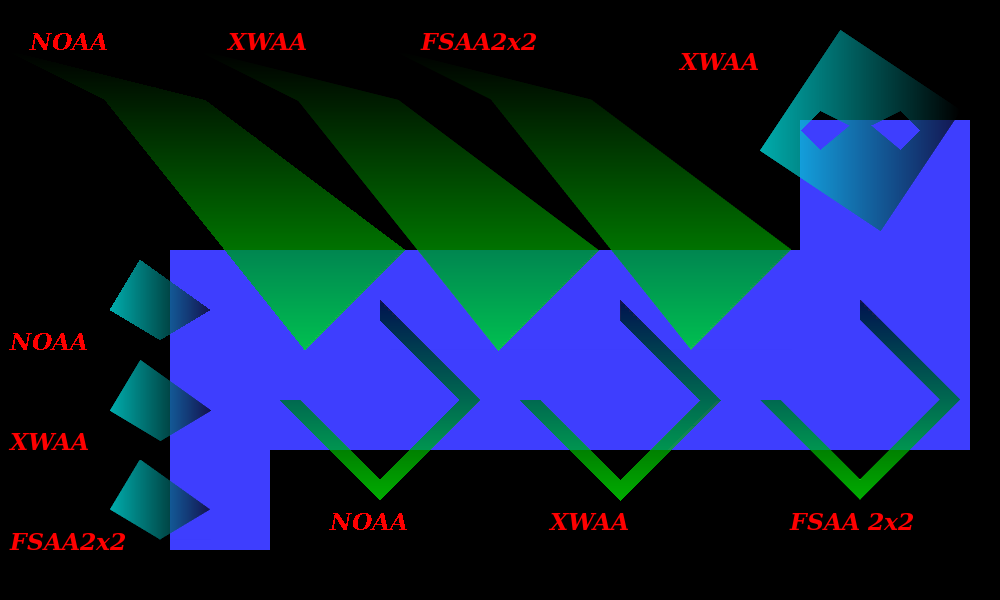
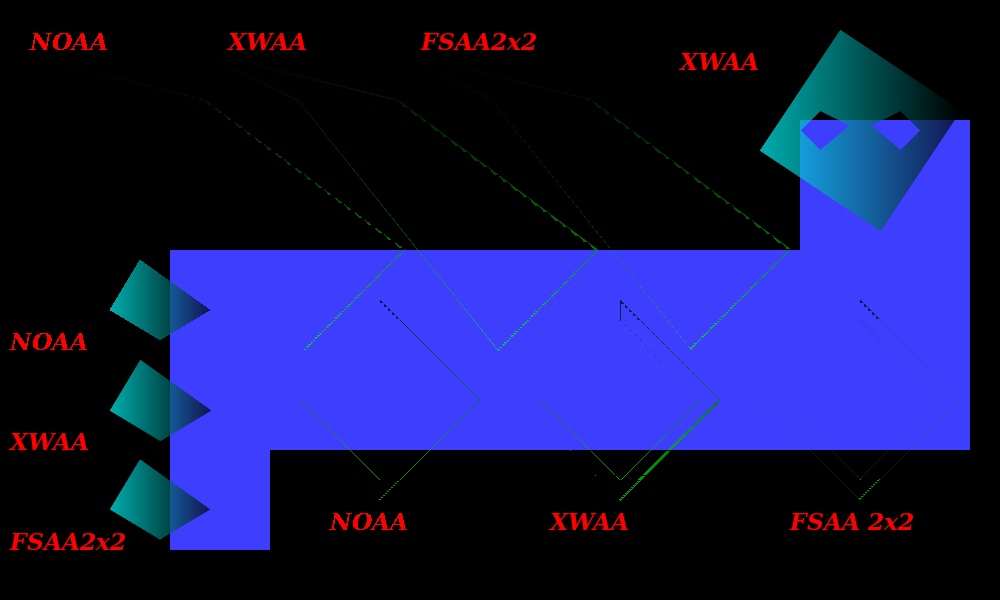
Working on NEON support

diff --git a/include/Pt/Gfx/Argb32SIMDOps.h b/include/Pt/Gfx/Argb32SIMDOps.h
@@ -58,12 +58,22 @@ namespace Gfx {
 namespace Argb32 {
 
 
-#ifdef USE_SSE2
+#if defined(USE_SSE2)
 
 // SSE mask
 static const __m128i maskA000 = _mm_set_epi32(0xFF000000U, 0xFF000000U, 0xFF000000U, 0xFF000000U);
 static const __m128i maskA0G0 = _mm_set_epi32(0xFF00FF00U, 0xFF00FF00U, 0xFF00FF00U, 0xFF00FF00U);
 static const __m128i mask0B0R = _mm_set_epi32(0x00FF00FFU, 0x00FF00FFU, 0x00FF00FFU, 0x00FF00FFU);
+
+#elif defined(USE_NEON)
+
+#define SET_16X8(A, B, C, D, E, F, G, H) { (int16_t) A, (int16_t) B, (int16_t) C, (int16_t) D, (int16_t) E, (int16_t) F, (int16_t) G, (int16_t) H }
+#define SET_32X4(A, B, C, D)             { (int32_t) A, (int32_t) B, (int32_t) C, (int32_t) D }
+
+// NEON mask
+static const int32x4_t maskA000 = SET_32X4(0xFF000000U, 0xFF000000U, 0xFF000000U, 0xFF000000U);
+static const int32x4_t maskA0G0 = SET_32X4(0xFF00FF00U, 0xFF00FF00U, 0xFF00FF00U, 0xFF00FF00U);
+static const int32x4_t mask0B0R = SET_32X4(0x00FF00FFU, 0x00FF00FFU, 0x00FF00FFU, 0x00FF00FFU);
 
 #endif
 
@@ -92,7 +102,7 @@ inline void fastCopyPixels(Pt::uint8_t* toBuffer, Pt::uint32_t fromARGB, size_t 
           int32x4_t* dstvARGB = reinterpret_cast<int32x4_t*>(toBuffer);
 
     for(size_t i = 0; i < len4; ++i) {
-        vst1q_s32(reinterpret_cast<Pt::int32_t*>(dstvARGB), srcvARGB);
+        vst1q_s32((int32_t*) dstvARGB, srcvARGB);
         ++dstvARGB;
     }
 
@@ -111,7 +121,7 @@ inline void fastCopyPixels(Pt::uint8_t* toBuffer, Pt::uint32_t fromARGB, size_t 
 // Blend a constant color to destination pixels
 inline void fastBlendPixels(Pt::uint8_t* toBuffer, Pt::uint32_t srcA, Pt::uint32_t srcR, Pt::uint32_t srcG, Pt::uint32_t srcB, Pt::uint32_t blendInv, size_t length)
 {
-#ifdef USE_SSE2
+#if defined(USE_SSE2)
 
     const size_t   len4     = length / 4;
     const __m128i  srcvAGAG = _mm_set_epi16(srcA, srcG, srcA, srcG, srcA, srcG, srcA, srcG); // [ AAGG AAGG AAGG AAGG ]
@@ -142,6 +152,42 @@ inline void fastBlendPixels(Pt::uint8_t* toBuffer, Pt::uint32_t srcA, Pt::uint32
         // Store 4 pixels
         dstv4PIX = _mm_or_si128    (dstvAGAG, dstvRBRB); // [ ARGB ARGB ARGB ARGB ]
                    _mm_storeu_si128(dstvARGB, dstv4PIX);
+        // Increment the destination pointer
+        ++dstvARGB;
+    }
+
+    length %= 4;
+    Pt::uint8_t* dst = reinterpret_cast<Pt::uint8_t*>(dstvARGB);
+
+#elif defined(USE_NEON)
+
+    const size_t     len4     = length / 4;
+    const int16x8_t  srcvAGAG = SET_16X8(srcA, srcG, srcA, srcG, srcA, srcG, srcA, srcG); // [ AAGG AAGG AAGG AAGG ]
+    const int16x8_t  srcvRBRB = SET_16X8(srcR, srcB, srcR, srcB, srcR, srcB, srcR, srcB); // [ RRBB RRBB RRBB RRBB ]
+    const int32x4_t  srci0A0A = SET_32X4(blendInv, blendInv, blendInv, blendInv);         // [ 0I0I 0I0I 0I0I 0I0I ]
+          int32x4_t* dstvARGB = reinterpret_cast<int32x4_t*>(toBuffer);
+          int32x4_t  dstv4PIX;
+          int32x4_t  dstvAGAG;
+          int32x4_t  dstvRBRB;
+
+    for(size_t i = 0; i < len4; ++i) {
+        // Load 4 pixels
+        dstv4PIX = vld1q_s32  ((int32_t*) dstvARGB); // [ ARGB ARGB ARGB ARGB ]
+        // Process A and G
+        dstvAGAG = vandq_s32  (dstv4PIX, maskA0G0 ); // [ A0G0 A0G0 A0G0 A0G0 ]
+        dstvAGAG = vshrq_n_s32(dstvAGAG, 8        ); // [ 0A0G 0A0G 0A0G 0A0G ]
+        dstvAGAG = (int32x4_t) vmulq_s16  ((int16x8_t) dstvAGAG, (int16x8_t) srci0A0A ); // [ AAGG AAGG AAGG AAGG ]
+        dstvAGAG = (int32x4_t) vaddq_s16  ((int16x8_t) dstvAGAG, (int16x8_t) srcvAGAG ); // [ AAGG AAGG AAGG AAGG ]
+        dstvAGAG = vandq_s32  (dstvAGAG, maskA0G0 ); // [ A0G0 A0G0 A0G0 AAG0 ]
+        // Process R and B
+        dstvRBRB = vandq_s32  (dstv4PIX, mask0B0R ); // [ 0R0B 0R0B 0R0B 0R0B ]
+        dstvRBRB = (int32x4_t) vmulq_s16  ((int16x8_t) dstvRBRB, (int16x8_t) srci0A0A ); // [ RRBB RRBB RRBB RRBB ]
+        dstvRBRB = (int32x4_t) vaddq_s16  ((int16x8_t) dstvRBRB, (int16x8_t) srcvRBRB ); // [ RRBB RRBB RRBB RRBB ]
+        dstvRBRB = vshrq_n_s32(dstvRBRB, 8        ); // [ .R.B .R.B .R.B .R.B ]
+        dstvRBRB = vandq_s32  (dstvRBRB, mask0B0R ); // [ 0R0B 0R0B 0R0B 0R0B ]
+        // Store 4 pixels
+        dstv4PIX = vorrq_s32  (dstvAGAG, dstvRBRB); // [ ARGB ARGB ARGB ARGB ]
+                   vst1q_s32  ((int32_t*) dstvARGB, dstv4PIX);
         // Increment the destination pointer
         ++dstvARGB;
     }
@@ -192,10 +238,11 @@ inline void fastCopyPixels(Pt::uint8_t* toBuffer, const Pt::uint8_t* fromBuffer,
           int32x4_t* dstvARGB = reinterpret_cast<      int32x4_t*>(toBuffer  );
 
     for(size_t i = 0; i < len4; ++i) {
-        vst1q_s32(reinterpret_cast<Pt::int32_t*>(dstvARGB), vld1q_s32(reinterpret_cast<const Pt::int32_t*>(srcvARGB)));
+        vst1q_s32((int32_t*) dstvARGB, vld1q_s32((int32_t*) srcvARGB));
         ++srcvARGB;
         ++dstvARGB;
     }
+
     const Pt::uint32_t* src = reinterpret_cast<const Pt::uint32_t*>(srcvARGB);
           Pt::uint32_t* dst = reinterpret_cast<      Pt::uint32_t*>(dstvARGB);
           Pt::uint32_t* dsm = dst + length % 4;

diff --git a/src/Pt-Gfx/tests/ImagePainterTest2.cpp b/src/Pt-Gfx/tests/ImagePainterTest2.cpp
@@ -58,8 +58,8 @@ using namespace Pt::Gfx;
 #define DO_BENCHMARKING 1
 
 // Detailed-test enable settings for Pt-Gfx
-#define TEST_SOURCECOPY                         1
-#define TEST_SOURCEOVER                         0
+#define TEST_SOURCECOPY                         0
+#define TEST_SOURCEOVER                         1
 
 #define TEST_DRAW_SOLID_LINE_AND_TEXT           0 // (including bezier)
 #define TEST_DRAW_PATTERNED_LINE                0 // (including bezier)
@@ -71,8 +71,8 @@ using namespace Pt::Gfx;
 #define TEST_DRAW_ELLIPSES_ARCS                 0
 #define TEST_DRAW_THICK_ELLIPSES_ARCS           0
 
-#define TEST_DRAW_SOLID_FILLED_POLYGONS         0
-#define TEST_DRAW_GRADIENT_FILLED_POLYGONS      1
+#define TEST_DRAW_SOLID_FILLED_POLYGONS         1
+#define TEST_DRAW_GRADIENT_FILLED_POLYGONS      0
 #define TEST_DRAW_TEXTURE_FILLED_POLYGONS       0
 
 #define TEST_DRAW_SOLID_FILLED_ELLIPSES_ARCS    0
